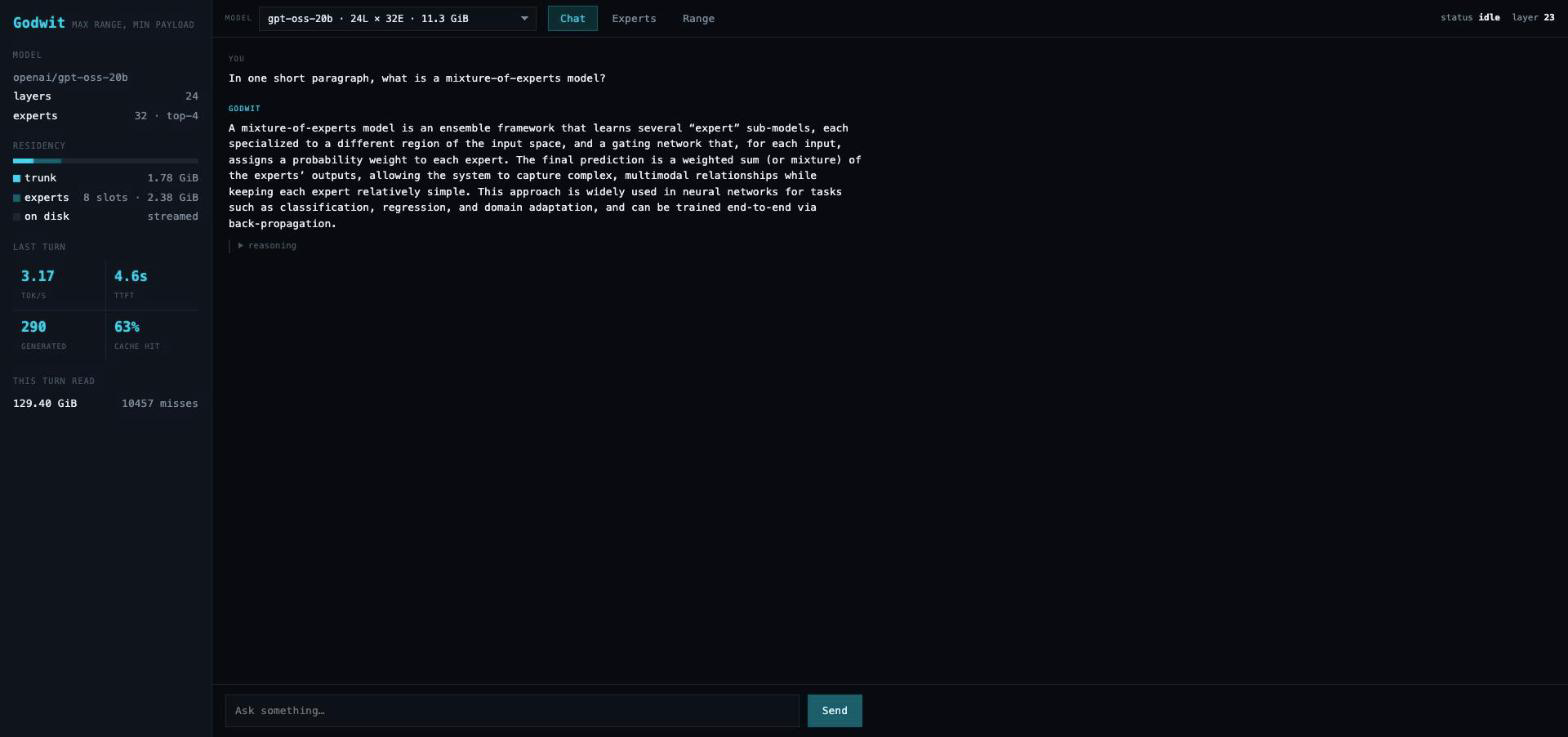
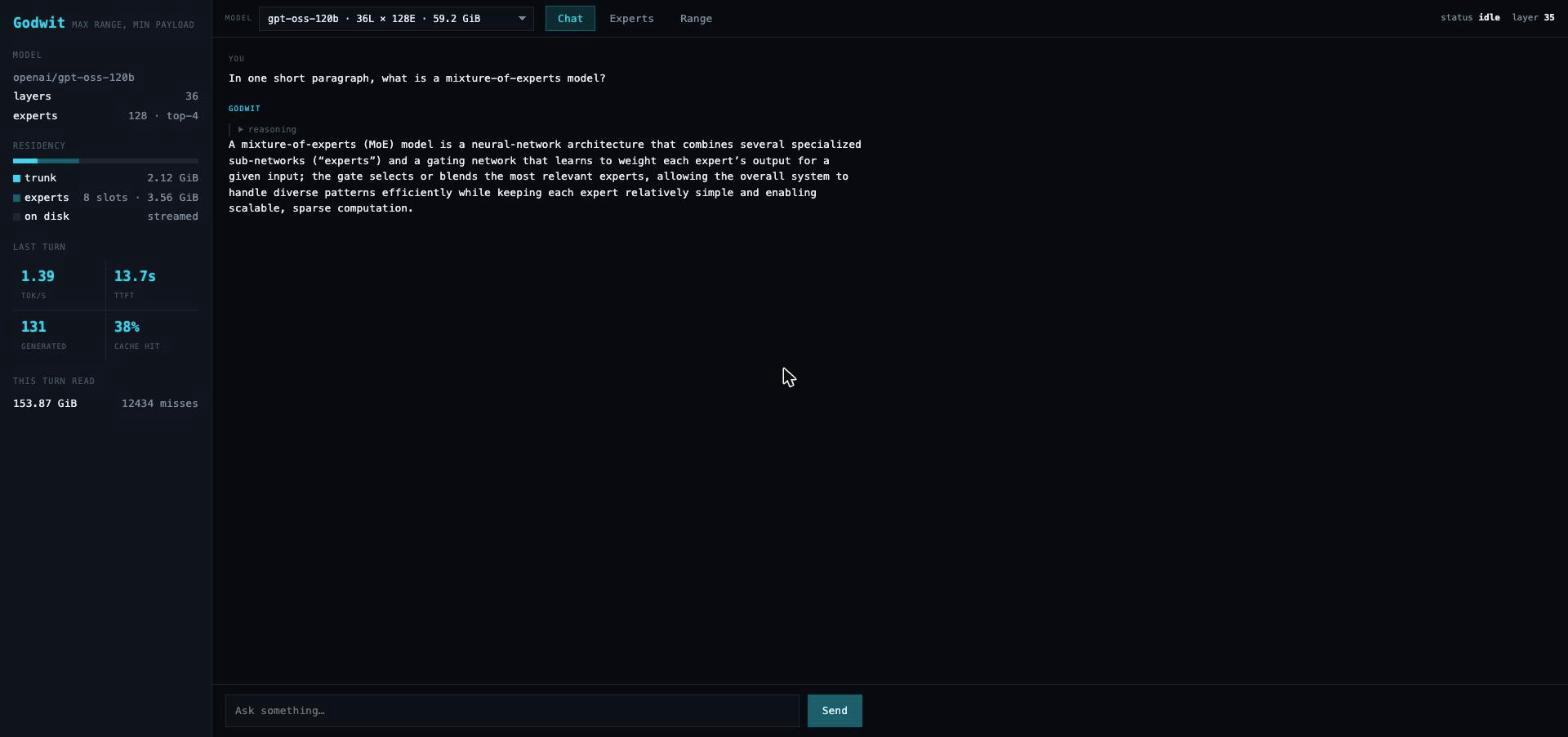
Make the README true again
Audited every checkable claim against the code and the installed models rather
than re-reading the prose. Five things were wrong.

The expert-routing screenshot showed the 20B's 24x32 grid while the text beside
it described the 120B's 36x128 and "exactly 144 cells". They were retaken during
the colour rebrand with the wrong model loaded. All three screenshots are now the
120B again, and the grid in the image really does hold 4,608 cells with 144 lit.

The requirements said "~60 GB of free space", which is true only for the 120B —
Qwen3 needs 17 and the 20B 12. Someone with a 256 GB disk would have concluded
the project was out of reach.

The range map was advertised at "about 3 minutes". It is 3m44s on Qwen3's 48
layers now that each topic is probed twice, and longer on the 120B.

The correctness paragraph said attention is checked "with sinks", which is now
half the story: there is a second reference for Qwen3, without sinks and with
QK-norm. It also pointed at verify_install.py without saying that script demands
byte equality and therefore only works where experts were copied through rather
than quantised.

The badge advertised one model.

Also merged the two model tables into one, since a separate Qwen3 table invited
exactly the drift that produced the first four problems. Every figure in it is
read from the manifests: 59.2 / 11.2 / 16.1 GiB installed, 5.7 / 4.1 / 2.5 GiB
resident, top-4 / top-4 / top-8.
[…]

diff --git a/README.md b/README.md
@@ -7,7 +7,7 @@
 [![license](https://img.shields.io/badge/license-Apache%202.0-22d3ee?style=flat-square&labelColor=101820)](LICENSE)
 [![Swift](https://img.shields.io/badge/Swift-6.2%2B-0891b2?style=flat-square&labelColor=101820)](https://swift.org)
 [![platform](https://img.shields.io/badge/platform-Apple%20Silicon-7d8b9a?style=flat-square&labelColor=101820)](#requirements)
-[![model](https://img.shields.io/badge/model-GPT--OSS--120B-0e5f6b?style=flat-square&labelColor=101820)](https://huggingface.co/openai/gpt-oss-120b)
+[![models](https://img.shields.io/badge/models-GPT--OSS%20%C2%B7%20Qwen3-0e5f6b?style=flat-square&labelColor=101820)](#model-support)
 [![dependencies](https://img.shields.io/badge/dependencies-none-34d399?style=flat-square&labelColor=101820)](Package.swift)
 [![website](https://img.shields.io/badge/website-rayl15.github.io%2FGodwit-101820?style=flat-square&labelColor=101820)](https://rayl15.github.io/Godwit/)
 
@@ -23,6 +23,9 @@ Godwit runs [GPT-OSS-120B](https://huggingface.co/openai/gpt-oss-120b) — 59 Gi
 on disk — on an Apple Silicon Mac with 16 GB of memory, by keeping only the
 shared trunk resident and streaming mixture-of-experts weights from SSD as the
 router asks for them. Swift and Metal, no dependencies.
+
+It also runs GPT-OSS-20B and Qwen3-30B-A3B, from the same binary, switchable at
+runtime. See [model support](#model-support).
 
 ![Chat](docs/assets/chat.png)
 
@@ -115,8 +118,9 @@ Full numbers, including everything that did not work, in
 
 - Apple Silicon Mac, macOS 26+, Swift 6.2+
 - 16 GB of memory
-- ~60 GB of free space on fast internal storage
-- A few hours for the first install
+- Free space on fast internal storage for the model you want: ~60 GB for
+  GPT-OSS-120B, ~17 GB for Qwen3-30B-A3B, ~12 GB for GPT-OSS-20B
+- One to three hours for the first install, depending on the model
 
 Xcode is not required; shaders compile at run time, so the Command Line Tools
 are enough.
@@ -138,7 +142,8 @@ swift build -c release
 .build/release/godwit serve --model model.gwt
 ```
 
-Build the range map (about 3 minutes; the dashboard picks it up automatically):
+Build the range map (a few minutes — 3m44s for Qwen3's 48 layers; the
+dashboard picks it up automatically):
 
 ```bash
 .build/release/godwit range --model model.gwt -o model.gwt/range.json
@@ -231,9 +236,13 @@ the Command Line Tools, Swift Testing needs framework and rpath flags the script
 supplies.
 
 Correctness is checked against NumPy references built from the same installed
-bytes, at every stage: MXFP4 decode, expert feed-forward, attention with sinks,
-a complete layer including exact expert selection, and the tokeniser against
-`tiktoken`.
+bytes, at every stage: MXFP4 decode and encode, expert feed-forward, attention
+both with sinks (GPT-OSS) and with QK-norm and without sinks (Qwen3), a complete
+layer including exact expert selection, and the tokeniser against `tiktoken`.
+
+`verify_install.py` is GPT-OSS-specific — it demands byte equality, which only
+holds when the experts were copied through rather than quantised. Use
+`verify_qwen3.py` for a quantised install.
 
 ## Model support
 
@@ -244,29 +253,29 @@ model is a flag:
 godwit install --output qwen3.gwt --model-id Qwen/Qwen3-30B-A3B
 ```
 
-| | 120B | 20B |
-| --- | ---: | ---: |
-| Layers | 36 | 24 |
-| Experts per layer | 128 | 32 |
-| Install size | 58.9 GiB | 11.2 GiB |
-| Resident | 5.7 GiB | 4.1 GiB |
-| Decode | 1.4 tok/s | **2.8–3.2 tok/s** |
+| | GPT-OSS-120B | GPT-OSS-20B | Qwen3-30B-A3B |
+| --- | ---: | ---: | ---: |
+| Layers | 36 | 24 | 48 |
+| Experts per layer | 128 | 32 | 128 |
+| Active per token | 4 | 4 | 8 |
+| Install size | 59.2 GiB | 11.2 GiB | 16.1 GiB |
+| Install time | ~3 h | ~40 min | 105 min |
+| Resident | 5.7 GiB | 4.1 GiB | 2.5 GiB |
+| Decode | 1.4 tok/s | 2.8–3.2 tok/s | **2.3 tok/s** |
+| Time to first token | 10–13 s | ~5 s | 4.5 s |
+| Expert cache hit | ~38% | ~60% | ~32% |
 
-### Qwen3-30B-A3B
+Cache hit rates are for a short single turn and rise as a conversation grows;
+Qwen3's is structurally lower because it routes to eight experts per token
+against GPT-OSS's four, touching twice as many through the same eight slots.
 
-| | GPT-OSS-120B | Qwen3-30B-A3B |
-| --- | ---: | ---: |
-| Install | 59 GB | 16 GB |
-| Install time | ~3 h | 105 min |
-| Decode | 1.4 tok/s | **2.3 tok/s** |
-| Time to first token | 10–13 s | 4.5 s |
-| Expert cache hit | ~60% | 45% |
+### What a second family cost
 
-It answers. The lower cache hit rate is structural: Qwen3 routes to eight
-experts per token against GPT-OSS's four, so it touches twice as many through
-the same eight slots.
+GPT-OSS-20B ran first time with no change beyond declaring the spec, which was a
+narrow result — same family, so tensor naming, RoPE, activation, sinks and
+tokeniser were never exercised.
 
-Getting there took one bug worth recording, because of how it presented. The
+Qwen3 was the actual test. It took one bug worth recording, because of how it presented. The
 model produced fluent English with correct facts and then could not stop —
 asked for the capital of France it would say Paris, doubt itself, and re-derive
 it until the token budget ran out. That looks exactly like quantisation damage,
@@ -301,7 +310,8 @@ individually in [docs/DESIGN.md](docs/DESIGN.md).
 same problem across more model families and more hardware. It is further along
 than this, and worth your attention if you want something to use rather than
 something to read. Godwit differs in being Apple-Silicon-native rather than one
-backend of four, and in supporting GPT-OSS, which colibrì does not.
+backend of four, and in supporting GPT-OSS, which colibrì did not when this was
+last checked — that is a claim about someone else's project and may have aged.
 
 ## Contributing
 
